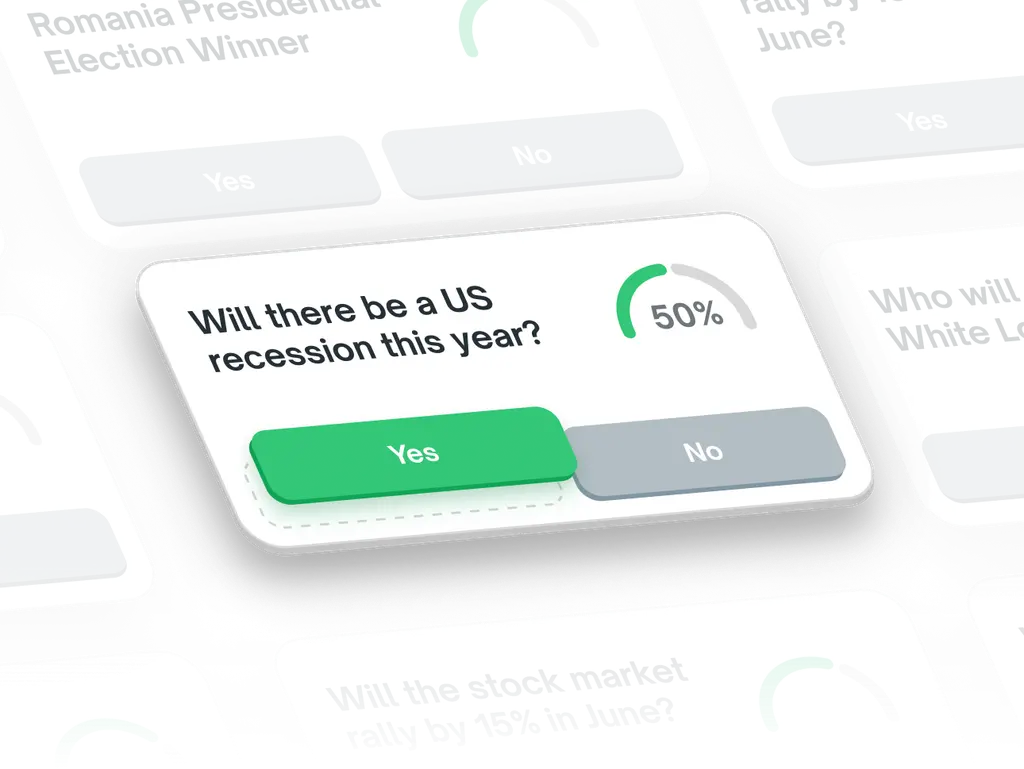
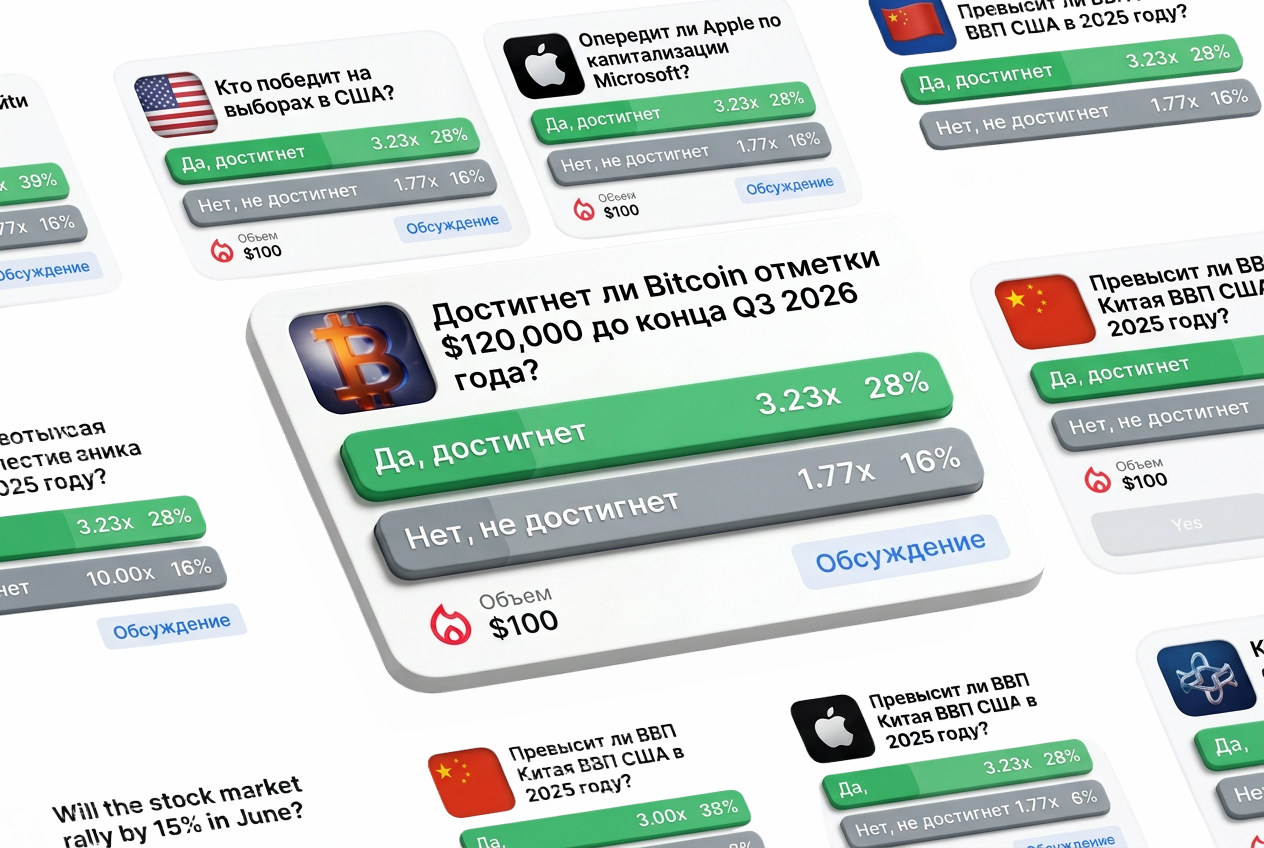
okok

diff --git a/src/pages/Leaderboard/index.tsx b/src/pages/Leaderboard/index.tsx
@@ -1,9 +1,9 @@
 import s from './leaderboard.module.scss'
 import { useState } from 'react'
+import { useClickOutside } from '../../hooks/hooks'
 import { GROUPS_MAP } from '../../utils/date'
 import LeaderboardTable from './components/table'
 import SidebarWins from './components/Sidebar'
-import { useClickOutside } from '../../hooks/hooks'
 import IconSprite from '../../elements/icon'
 
 type TPeriod = 'day' | 'week' | 'month' | 'all'
@@ -17,9 +17,9 @@ const PERIODS: { id: TPeriod; label: string }[] = [
 
 export default function PageLeaderboard() {
   const [period, setPeriod] = useState<TPeriod>('month')
-  const [tag, setTag] = useState('')
+  const [group, setGroup] = useState('')
   const [periodRef, isPeriodOpen, togglePeriod] = useClickOutside()
-  const tags = Object.entries(GROUPS_MAP).map(([key, value]) => ({ id: key, label: value }))
+  const groups = Object.entries(GROUPS_MAP).map(([key, value]) => ({ id: key, label: value }))
 
   const handleSetPeriod = (periodId: TPeriod) => {
     setPeriod(periodId)
@@ -51,8 +51,8 @@ export default function PageLeaderboard() {
           </div>
 
           <div className='flex-i bd bdr'>
-            <select name='tag' value={tag} onChange={(e) => setTag(e.target.value)}>
-              {tags.map((t) => (
+            <select name='group' value={group} onChange={(e) => setGroup(e.target.value)}>
+              {groups.map((t) => (
                 <option key={t.id} value={t.id}>
                   {t.label} {t.id === '' ? 'категории' : ''}
                 </option>
@@ -61,10 +61,10 @@ export default function PageLeaderboard() {
           </div>
         </div>
 
-        <LeaderboardTable period={period} tag={tag} />
+        <LeaderboardTable period={period} group={group} />
       </div>
 
-      <SidebarWins period={period} tag={tag} />
+      <SidebarWins period={period} group={group} />
     </div>
   )
 }

diff --git a/src/pages/Leaderboard/components/Sidebar/index.tsx b/src/pages/Leaderboard/components/Sidebar/index.tsx
@@ -5,11 +5,11 @@ import { useGetTopWinsQuery } from '../../../../services/api'
 import { Link } from 'react-router-dom'
 
 interface SidebarProps {
-  tag: string
+  group: string
   period: string
 }
 
-export default function SidebarWins({ tag, period }: SidebarProps) {
+export default function SidebarWins({ group, period }: SidebarProps) {
   const periodTitle = {
     day: 'последний день',
     week: 'последнюю неделю',
@@ -20,13 +20,13 @@ export default function SidebarWins({ tag, period }: SidebarProps) {
   return (
     <aside className={s.sidebar}>
       <h2 className='pv-1'>Крупнейшие выигрыши за {periodTitle}</h2>
-      <WinList tag={tag} period={period} />
+      <WinList group={group} period={period} />
     </aside>
   )
 }
 
-const WinList = ({ tag, period }: SidebarProps) => {
-  const { data, isLoading, isError } = useGetTopWinsQuery({ tag, period })
+const WinList = ({ group, period }: SidebarProps) => {
+  const { data, isLoading, isError } = useGetTopWinsQuery({ group, period })
 
   if (isLoading) return <Empty title='Загрузка...' loading size={16} />
   if (isError) return <Empty title='Ошибка загрузки' size={16} />

diff --git a/src/pages/Leaderboard/components/table/index.tsx b/src/pages/Leaderboard/components/table/index.tsx
@@ -10,20 +10,20 @@ import { useEffect } from 'react'
 import { Link } from 'react-router-dom'
 
 interface TableProps {
-  tag: string
+  group: string
   period: string
 }
 
-export default function LeaderboardTable({ tag, period }: TableProps) {
+export default function LeaderboardTable({ group, period }: TableProps) {
   const limit = 20
   const dispatch = useAppDispatch()
   const observerTarget = useRef<HTMLDivElement>(null)
-  const { users, total, isLoading, isError, isFetching } = useLeaderboard(tag, period, limit, 0)
+  const { users, total, isLoading, isError, isFetching } = useLeaderboard(group, period, limit, 0)
 
   const loadMore = () => {
     if (users.length >= total || isFetching) return
     const nextOffset = users.length
-    dispatch(apiBase.endpoints.getLeaderboard.initiate({ tag, period, limit, offset: nextOffset }))
+    dispatch(apiBase.endpoints.getLeaderboard.initiate({ group, period, limit, offset: nextOffset }))
   }
 
   useEffect(() => {

diff --git a/src/store/leaderboard.adapter.ts b/src/store/leaderboard.adapter.ts
@@ -5,9 +5,9 @@ import type { ILeaderboardUser } from '../types/app.types'
 export const leaderboardAdapter = createEntityAdapter<ILeaderboardUser>()
 export const leaderboardSelectors = leaderboardAdapter.getSelectors()
 
-export const useLeaderboard = (tag?: string, period?: string, limit?: number, offset?: number) => {
+export const useLeaderboard = (group?: string, period?: string, limit?: number, offset?: number) => {
   return useGetLeaderboardQuery(
-    { tag, period, limit, offset },
+    { group, period, limit, offset },
     {
       selectFromResult: ({ data, isLoading, isFetching, isError }) => ({
         userIds: data ? leaderboardSelectors.selectIds(data) : [],

diff --git a/src/modals/how/index.tsx b/src/modals/how/index.tsx
@@ -2,7 +2,7 @@ import style from './how.module.scss'
 import { useEffect, useState } from 'react'
 import { useModalContext } from '../../services/ModalContext'
 import ModalLogin from '../login'
-import how1 from '../../assets/how11.webp'
+import how1 from '../../assets/how1.webp'
 import how2 from '../../assets/how2.webp'
 import how3 from '../../assets/how3.webp'
 
